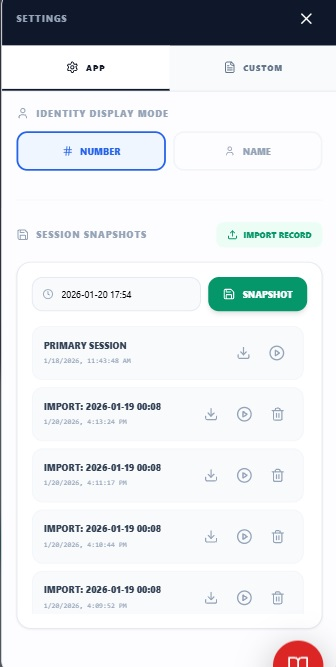
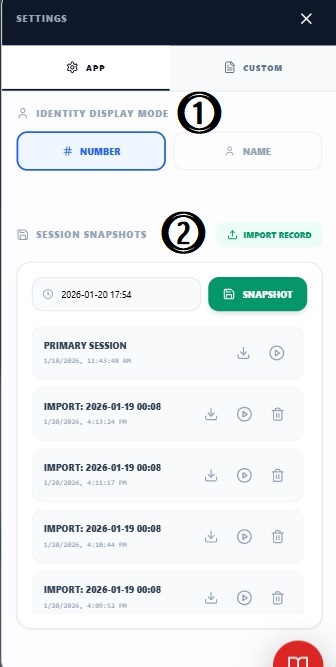
update h2use

Changed region(s): [[0.506, 0.1199, 0.6845, 0.2099], [0.4762, 0.2999, 0.625, 0.3898]]

diff --git a/src/components/popitems/popups/GreetingPopup.tsx b/src/components/popitems/popups/GreetingPopup.tsx
@@ -40,18 +40,18 @@ const GreetingPopup: React.FC<GreetingPopupProps> = ({ isOpen, onClose }) => {
       icon: <Users size={16} className="text-blue-500" />,
       images: ["/how2use/screen-1.jpg"],
       content: [
-        "Tap any player in the hub❶ to record social reads and role claims in their private notepad❷.",
+        "❶Tap any player in the hub to record social reads and role claims in their private notepad❷.",
         "This keeps your data organized per player."
       ]
     },
     {
       title: "2. Nomination Flow",
       icon: <Zap size={16} className="text-yellow-500" />,
-      images: ["/how2use/screen-2.0.jpg"],
+      images: ["/how2use/screen-2.jpg"],
       content: [
-        "Slide from Nominee to Target on the clock to create a link❶.",
-        "Before Voting you can still review/edit player notes❷.",
-        "Enter Voting Mode in the center to toggle voter status."
+        "❶:Slide from Nominee to Target on the clock to create a link.",
+        "❷:Before Voting you can still review/edit player notes.",
+        "❸:Enter Voting Mode and select voter for this nomination."
       ]
     },
     {
@@ -59,8 +59,9 @@ const GreetingPopup: React.FC<GreetingPopupProps> = ({ isOpen, onClose }) => {
       icon: <Skull size={16} className="text-red-500" />,
       images: ["/how2use/screen-3.jpg"],
       content: [
-        "Toggle Death or Property mode❶, then tap clock slices to tag players.",
-        "Swipe the center ball❷ to change the current game day."
+        "❶: Toggle Death or Property assign mode for tag players.",
+        "❷: Swipe the center ball to change the current game day.",
+        "❸: Review mode, Clock Layer, and day filter for Clock review."
       ]
     },
     {
@@ -68,10 +69,11 @@ const GreetingPopup: React.FC<GreetingPopupProps> = ({ isOpen, onClose }) => {
       icon: <Search size={16} className="text-indigo-500" />,
       images: ["/how2use/screen-4.jpg"],
       content: [
-        "V/R/G modes help visualize patterns❶.",
-        "See who voted for whom and global trends.",
-        "Enable/Disable layers with toggle❷.",
-        "Use the ring filter❸ to focus on specific days."
+        "⓿: Enter to open full ledger. Contain information on",
+        "❶: Player information table",
+        "❷: Nomination information table.",
+        "❸: Role script for the session. Here set number of players and existing role for keywords insert.",
+        "❹: Our only Notes if any nessessary."
       ]
     },
     {
@@ -79,16 +81,20 @@ const GreetingPopup: React.FC<GreetingPopupProps> = ({ isOpen, onClose }) => {
       icon: <BookOpen size={16} className="text-emerald-500" />,
       images: ["/how2use/screen-5.jpg"],
       content: [
-        "Access detailed tables for player records, all nominations, and the full role script for the session."
+       "❶: Nagigate Role Tab at Ledger for set up.",
+        "❷: Game reset.",
+        "❸: Player name setup, if nessessary display naming via setting.",
+        "❹: Setting.",
+        "❺: Anytime you can get back here."
       ]
     },
     {
-      title: "6. Game Management",
+      title: "6. Game Session",
       icon: <Edit3 size={16} className="text-slate-400" />,
       images: ["/how2use/screen-6.jpg"],
       content: [
-        "Use the sidebar to 'Load Role' scripts via AI prompt or manual entry.",
-        "Reset sessions here to start fresh with the same roles."
+        "❶: Dispaly in number or naming",
+        "❷: Game Save/load session, could export/import to/from other devices."
       ]
     },
     {
@@ -96,8 +102,10 @@ const GreetingPopup: React.FC<GreetingPopupProps> = ({ isOpen, onClose }) => {
       icon: <Palette size={16} className="text-purple-500" />,
       images: ["/how2use/screen-7.jpg"],
       content: [
-        "Personalize your experience in the settings.",
-        "Adjust colors, themes, and display preferences to suit your playstyle."
+        "⓿: Customization export/import session to/from other devices",
+        "❶: Property customizer for easy assign.",
+        "❷: Notepad customizer for default notepad and templates.",
+        "❾: Theme UI on app"
       ]
     },
     {
@@ -105,7 +113,6 @@ const GreetingPopup: React.FC<GreetingPopupProps> = ({ isOpen, onClose }) => {
       icon: <Sparkles size={16} className="text-amber-500" />,
       images: ["/how2use/screen-8.jpg"],
       content: [
-        "Now you're ready to run your game with confidence.",
         "Happy hunting!"
       ]
     },
